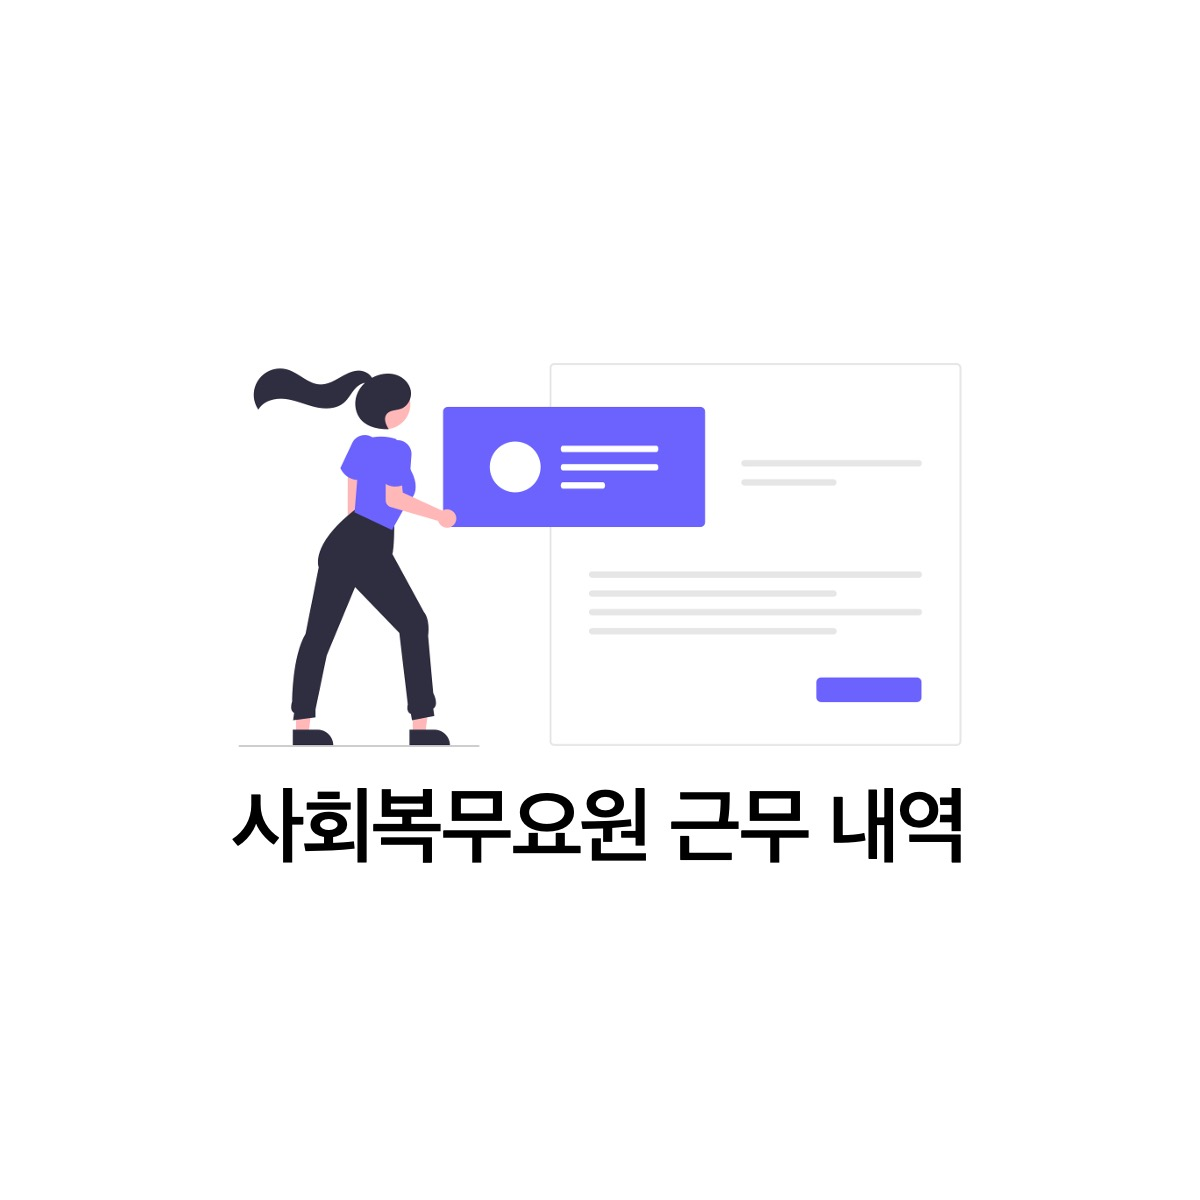
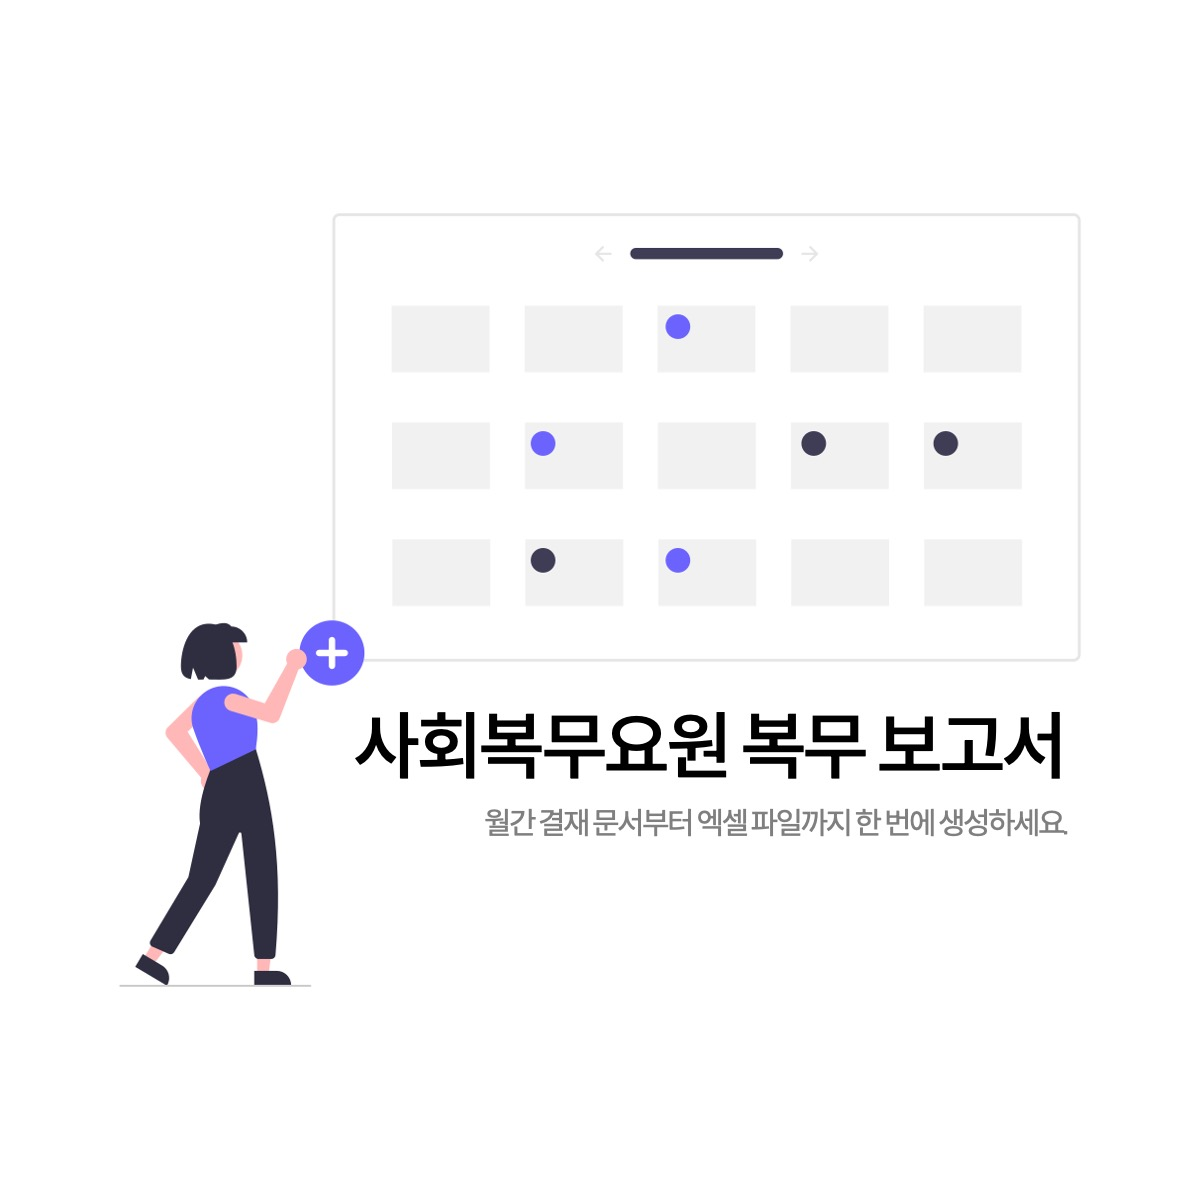
chore: clarify branding and description

diff --git a/src/routes/index.svelte b/src/routes/index.svelte
@@ -57,9 +57,9 @@
 	<main class="mx-auto max-w-screen-2xl px-4 py-10 sm:py-16 sm:px-6 lg:px-12 xl:px-16">
 		<div class="pb-10">
 			<h1 class="pb-2 text-2xl font-bold leading-7 tracking-tight text-gray-900 sm:text-3xl">
-				{VITE_TITLE} 작성
+				{VITE_TITLE}
 			</h1>
-			<p class="text-gray-500">결재 문서, 요원별 내역서, 엑셀 파일을 생성합니다.</p>
+			<p class="text-gray-500">결재 문서, 요원별 내역서, 엑셀 파일을 생성하세요.</p>
 		</div>
 		<div class="xl:grid xl:grid-cols-2 xl:gap-x-16">
 			<!-- Column -->

diff --git a/README.md b/README.md
@@ -1,4 +1,4 @@
-# 월간 사회복무요원 보고서
+# 월간 사회복무요원 복무 보고서
 
 결재 문서, 요원별 내역서, 엑셀 파일을 생성하는 도구
 
